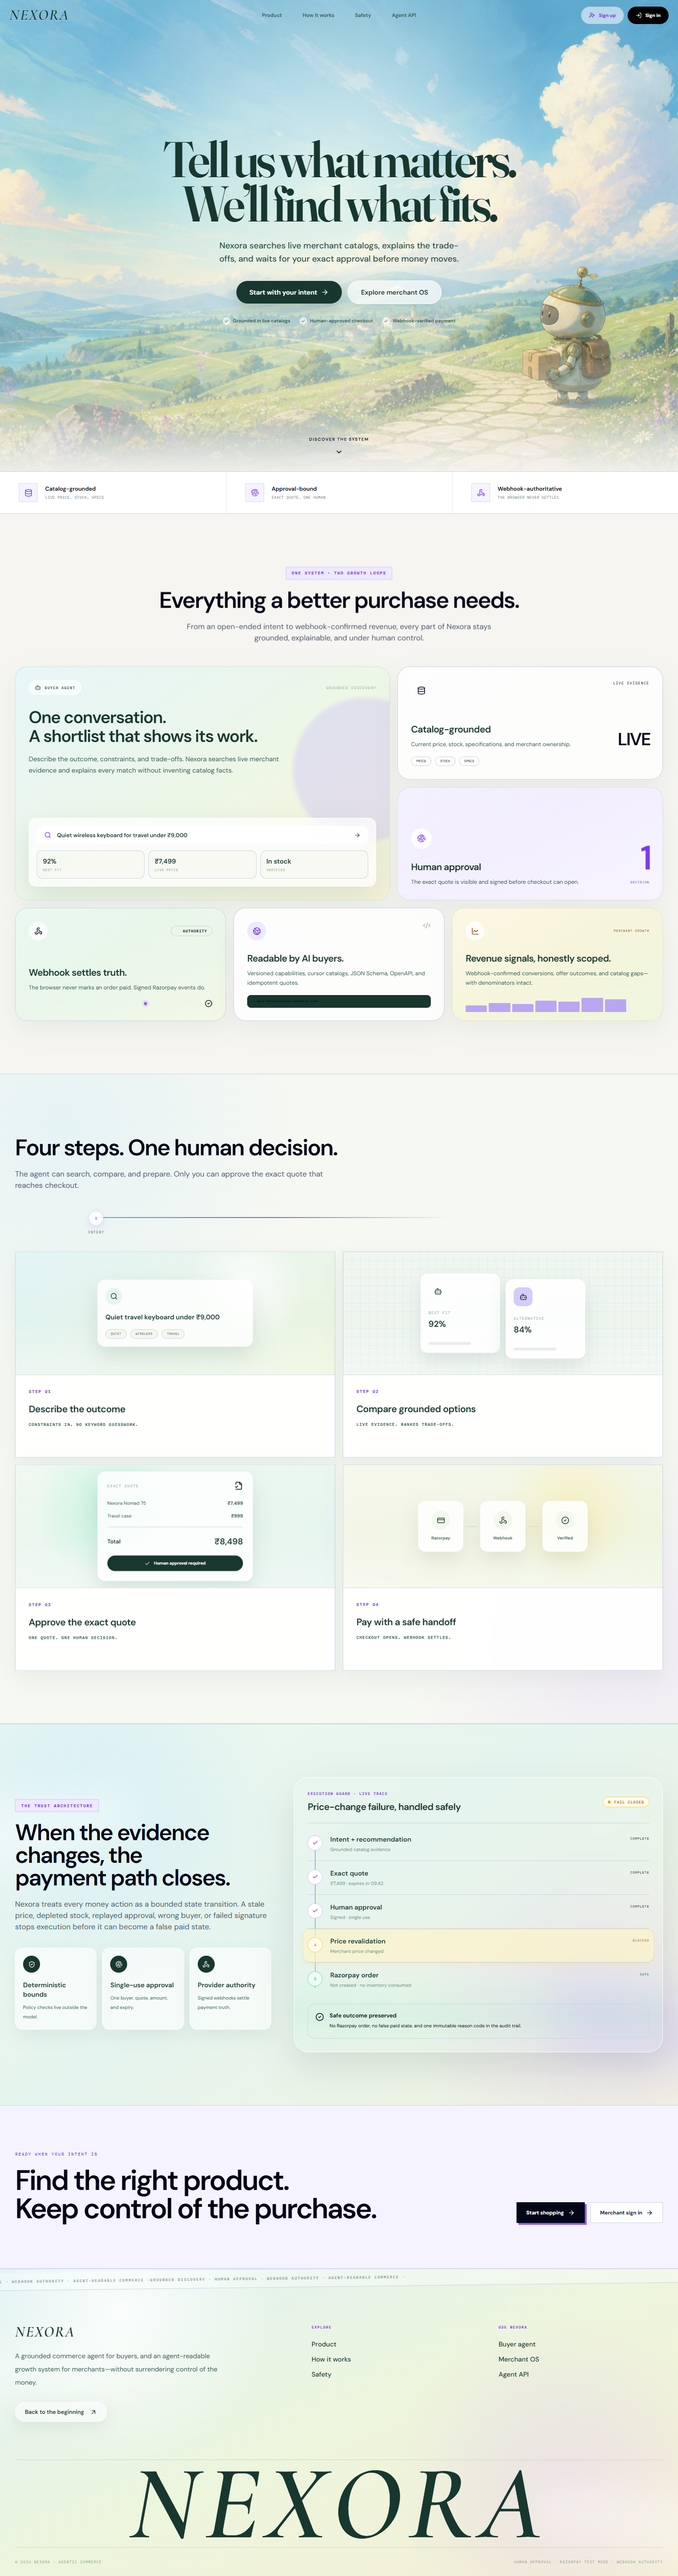
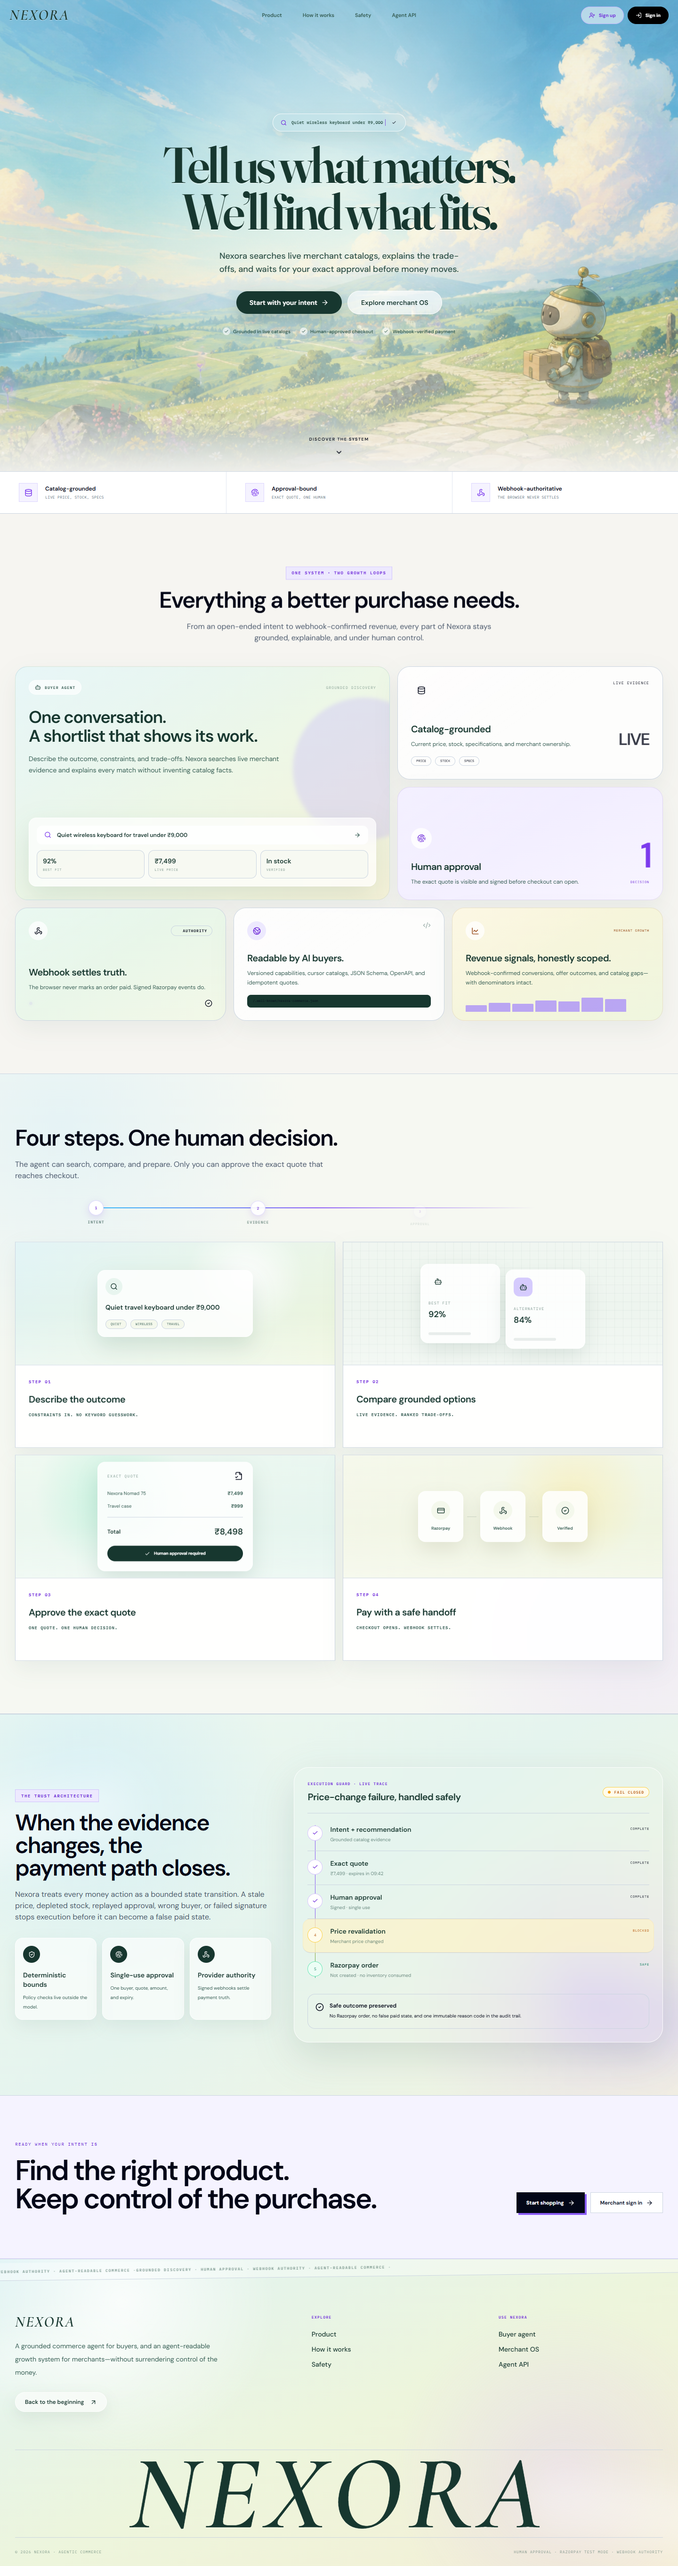
feat: animate landing hero experience

diff --git a/frontend/src/pages/LandingPage.jsx b/frontend/src/pages/LandingPage.jsx
@@ -19,7 +19,7 @@ import {
 import { useEffect, useRef, useState } from 'react'
 import { Link } from 'react-router-dom'
 import Brand from '../components/Brand'
-import { SectionHeading, SignalButton, StatusPill } from '../components/ui/Primitives'
+import { SignalButton, StatusPill } from '../components/ui/Primitives'
 
 const trustPoints = [
   { icon: Database, label: 'Catalog-grounded', detail: 'Live price, stock, specs' },
@@ -139,13 +139,19 @@ export default function LandingPage() {
 
         <div className="mx-auto flex min-h-svh max-w-[1440px] flex-col items-center justify-center pb-32 pt-24 text-center sm:pb-36 sm:pt-24">
           <div className="storybook-copy relative z-10 flex max-w-4xl flex-col items-center">
-            <h1 className="storybook-title mt-7 max-w-[13ch] text-balance text-[clamp(3.35rem,7.4vw,7.3rem)] font-semibold leading-[0.88] tracking-[-0.055em] text-[#17372f] drop-shadow-[0_2px_0_rgba(255,255,255,.35)]">
-              Tell us what matters. We’ll find what fits.
+            <div className="storybook-intent flex max-w-[calc(100vw-2rem)] items-center gap-2.5 rounded-full border border-white/80 bg-white/58 px-4 py-2.5 shadow-[0_12px_32px_rgba(49,89,79,.12)] backdrop-blur-md" aria-label="Example intent: Quiet wireless keyboard under ₹9,000">
+              <Search size={13} className="shrink-0 text-violet-700" aria-hidden="true" />
+              <span className="storybook-typed block overflow-hidden whitespace-nowrap text-left font-mono text-[9px] font-semibold text-[#31594f]" aria-hidden="true">Quiet wireless keyboard under ₹9,000</span>
+              <span className="storybook-intent-ready grid size-4 shrink-0 place-items-center rounded-full bg-emerald-100 text-emerald-700" aria-hidden="true"><Check size={10} /></span>
+            </div>
+            <h1 className="storybook-title mt-6 max-w-[13ch] text-balance text-[clamp(3.35rem,7.4vw,7.3rem)] font-semibold leading-[0.88] tracking-[-0.055em] text-[#17372f] drop-shadow-[0_2px_0_rgba(255,255,255,.35)]">
+              <span className="storybook-title-mask block"><span className="storybook-title-line storybook-title-line-one block">Tell us what matters.</span></span>
+              <span className="storybook-title-mask block"><span className="storybook-title-line storybook-title-line-two block">We’ll find what fits.</span></span>
             </h1>
-            <p className="mt-7 max-w-2xl text-balance text-base font-medium leading-7 text-[#24483f] sm:text-lg">
+            <p className="storybook-description mt-7 max-w-2xl text-balance text-base font-medium leading-7 text-[#24483f] sm:text-lg">
               Nexora searches live merchant catalogs, explains the trade-offs, and waits for your exact approval before money moves.
             </p>
-            <div className="mt-8 flex w-full flex-col items-center justify-center gap-3 sm:w-auto sm:flex-row">
+            <div className="storybook-actions mt-8 flex w-full flex-col items-center justify-center gap-3 sm:w-auto sm:flex-row">
               <Link to="/buyer" className="focus-ring group inline-flex min-h-12 w-full items-center justify-center gap-2 rounded-full bg-[#17372f] px-7 py-3.5 text-sm font-semibold text-white shadow-[0_14px_35px_rgba(23,55,47,.25)] transition duration-300 hover:-translate-y-0.5 hover:bg-violet-700 sm:w-auto">
                 Start with your intent <ArrowRight size={16} className="transition group-hover:translate-x-1" />
               </Link>
@@ -153,9 +159,9 @@ export default function LandingPage() {
                 Explore merchant OS
               </Link>
             </div>
-            <div className="mt-7 flex flex-wrap items-center justify-center gap-x-5 gap-y-2 text-[10px] font-semibold text-[#31594f]">
-              {['Grounded in live catalogs', 'Human-approved checkout', 'Webhook-verified payment'].map((item) => (
-                <span key={item} className="flex items-center gap-1.5"><span className="grid size-4 place-items-center rounded-full bg-white/65"><Check size={10} /></span>{item}</span>
+            <div className="storybook-proof mt-7 flex flex-wrap items-center justify-center gap-x-5 gap-y-2 text-[10px] font-semibold text-[#31594f]">
+              {['Grounded in live catalogs', 'Human-approved checkout', 'Webhook-verified payment'].map((item, index) => (
+                <span key={item} className="storybook-proof-item flex items-center gap-1.5" style={{ '--proof-delay': `${1750 + index * 120}ms` }}><span className="grid size-4 place-items-center rounded-full bg-white/65"><Check size={10} /></span>{item}</span>
               ))}
             </div>
           </div>
@@ -175,7 +181,11 @@ export default function LandingPage() {
 
       <section ref={productSectionRef} id="product" className={`product-section px-4 py-20 sm:px-6 sm:py-28 lg:px-8 ${productVisible ? 'product-section-visible' : ''}`}>
         <div className="mx-auto max-w-[1440px]">
-          <div className="product-bento-heading"><SectionHeading align="center" eyebrow="One system · two growth loops" title="Everything a better purchase needs." description="From an open-ended intent to webhook-confirmed revenue, every part of Nexora stays grounded, explainable, and under human control." /></div>
+          <header className="product-bento-heading mx-auto flex max-w-3xl flex-col items-center text-center">
+            <p className="inline-flex border border-violet-300/70 bg-violet-100 px-3 py-1.5 font-mono text-[9px] font-semibold uppercase tracking-[0.17em] text-violet-700">One system · two growth loops</p>
+            <h2 className="mt-5 text-balance text-3xl font-semibold leading-[1.05] tracking-[-0.045em] text-slate-950 sm:text-5xl">Everything a better purchase needs.</h2>
+            <p className="mt-5 max-w-2xl text-sm leading-7 text-slate-600 sm:text-base">From an open-ended intent to webhook-confirmed revenue, every part of Nexora stays grounded, explainable, and under human control.</p>
+          </header>
           <div className="product-bento-grid mt-12 grid gap-4 lg:grid-cols-12 lg:auto-rows-[240px]">
             <ProductFeatureCard tone="sky" motion="scale" index={0} className="min-h-[470px] lg:col-span-7 lg:row-span-2">
               <div className="product-bento-orb product-bento-orb-one" aria-hidden="true" />
@@ -217,7 +227,10 @@ export default function LandingPage() {
 
       <section ref={journeySectionRef} id="how-it-works" className={`journey-steps-section journey-reveal-section relative isolate overflow-hidden border-y border-emerald-950/10 px-4 py-20 sm:px-6 sm:py-28 lg:px-8 ${journeyVisible ? 'journey-section-visible' : ''}`}>
         <div className="relative z-10 mx-auto max-w-[1440px]">
-          <div className="journey-section-heading"><SectionHeading title="Four steps. One human decision." description="The agent can search, compare, and prepare. Only you can approve the exact quote that reaches checkout." /></div>
+          <header className="journey-section-heading flex max-w-3xl flex-col items-start">
+            <h2 className="text-balance text-3xl font-semibold leading-[1.05] tracking-[-0.045em] text-slate-950 sm:text-5xl">Four steps. One human decision.</h2>
+            <p className="mt-5 max-w-2xl text-sm leading-7 text-slate-600 sm:text-base">The agent can search, compare, and prepare. Only you can approve the exact quote that reaches checkout.</p>
+          </header>
           <div className="journey-route relative mt-10 hidden grid-cols-4 items-center md:grid" aria-hidden="true">
             <span className="absolute left-[12.5%] right-[12.5%] top-[15px] h-0.5 bg-emerald-950/15" />
             <span className="journey-route-fill absolute left-[12.5%] top-[15px] h-0.5 bg-gradient-to-r from-sky-400 via-violet-500 to-emerald-500" />
@@ -234,7 +247,11 @@ export default function LandingPage() {
         <div className="safety-aurora safety-aurora-two" aria-hidden="true" />
         <div className="relative z-10 mx-auto grid max-w-[1440px] gap-12 lg:grid-cols-[.82fr_1.18fr] lg:items-center">
           <div className="safety-copy-panel">
-            <SectionHeading eyebrow="The trust architecture" title="When the evidence changes, the payment path closes." description="Nexora treats every money action as a bounded state transition. A stale price, depleted stock, replayed approval, wrong buyer, or failed signature stops execution before it can become a false paid state." />
+            <header className="flex max-w-3xl flex-col items-start">
+              <p className="inline-flex border border-violet-300/70 bg-violet-100 px-3 py-1.5 font-mono text-[9px] font-semibold uppercase tracking-[0.17em] text-violet-700">The trust architecture</p>
+              <h2 className="mt-5 text-balance text-3xl font-semibold leading-[1.05] tracking-[-0.045em] text-slate-950 sm:text-5xl">When the evidence changes, the payment path closes.</h2>
+              <p className="mt-5 max-w-2xl text-sm leading-7 text-slate-600 sm:text-base">Nexora treats every money action as a bounded state transition. A stale price, depleted stock, replayed approval, wrong buyer, or failed signature stops execution before it can become a false paid state.</p>
+            </header>
             <div className="mt-8 grid gap-3 sm:grid-cols-3 lg:grid-cols-1 xl:grid-cols-3">
               {[{ icon: ShieldCheck, label: 'Deterministic bounds', copy: 'Policy checks live outside the model.' }, { icon: Fingerprint, label: 'Single-use approval', copy: 'One buyer, quote, amount, and expiry.' }, { icon: Webhook, label: 'Provider authority', copy: 'Signed webhooks settle payment truth.' }].map(({ icon: Icon, label, copy }, index) => <article key={label} className="safety-principle rounded-2xl border border-white/80 bg-white/60 p-4 shadow-[0_14px_34px_rgba(42,81,68,.08)] backdrop-blur-md" style={{ '--safety-delay': `${index * 110}ms` }}><span className="grid size-9 place-items-center rounded-full bg-[#17372f] text-white"><Icon size={15} /></span><h3 className="mt-4 text-sm font-semibold text-[#17372f]">{label}</h3><p className="mt-2 text-[10px] leading-5 text-[#31594f]">{copy}</p></article>)}
             </div>

diff --git a/frontend/src/index.css b/frontend/src/index.css
@@ -57,8 +57,71 @@
   text-shadow: 0 1px 0 rgba(255, 255, 255, .45);
 }
 
-.storybook-copy {
-  animation: storybook-arrive .85s cubic-bezier(.2,.8,.2,1) both;
+.storybook-intent,
+.storybook-title-line,
+.storybook-description,
+.storybook-actions,
+.storybook-proof-item {
+  will-change: transform, opacity;
+}
+
+.storybook-intent {
+  opacity: 0;
+  transform: translateY(12px) scale(.97);
+  animation: storybook-intent-enter .58s cubic-bezier(.2,.8,.2,1) .12s forwards;
+}
+
+.storybook-typed {
+  width: 0;
+  max-width: 37ch;
+  border-right: 1px solid rgba(109, 40, 217, .72);
+  animation:
+    storybook-type 1.15s steps(37, end) .48s forwards,
+    storybook-caret .68s step-end .48s 3;
+}
+
+.storybook-intent-ready {
+  opacity: 0;
+  transform: scale(.55);
+  animation: storybook-ready-pop .42s cubic-bezier(.2,.9,.25,1.35) 1.7s forwards;
+}
+
+.storybook-title-mask { overflow: hidden; padding-bottom: .05em; }
+
+.storybook-title-line {
+  opacity: 0;
+  transform: translateY(108%) rotate(.7deg);
+  animation: storybook-line-reveal .78s cubic-bezier(.16,.8,.24,1) forwards;
+}
+
+.storybook-title-line-one { animation-delay: .66s; }
+.storybook-title-line-two { animation-delay: .82s; }
+
+.storybook-description,
+.storybook-actions,
+.storybook-proof-item {
+  opacity: 0;
+  transform: translateY(14px);
+  animation: storybook-detail-enter .62s cubic-bezier(.2,.8,.2,1) forwards;
+}
+
+.storybook-description { animation-delay: 1.2s; }
+.storybook-actions { animation-delay: 1.4s; }
+.storybook-proof-item { animation-delay: var(--proof-delay); }
+
+.storybook-actions a {
+  position: relative;
+  overflow: hidden;
+}
+
+.storybook-actions a::after {
+  content: '';
+  position: absolute;
+  inset: -40% auto -40% -45%;
+  width: 30%;
+  transform: skewX(-18deg);
+  background: linear-gradient(90deg, transparent, rgba(255,255,255,.42), transparent);
+  animation: storybook-action-glint 4.8s ease-in-out 2.4s infinite;
 }
 
 .storybook-cloud {
@@ -811,9 +874,36 @@
   to { opacity: 1; clip-path: inset(0 0 0 0); transform: translateY(0); }
 }
 
-@keyframes storybook-arrive {
-  from { opacity: 0; transform: translateY(18px) scale(.99); }
+@keyframes storybook-intent-enter {
   to { opacity: 1; transform: translateY(0) scale(1); }
+}
+
+@keyframes storybook-type {
+  from { width: 0; }
+  to { width: 37ch; }
+}
+
+@keyframes storybook-caret {
+  0%, 100% { border-color: transparent; }
+  50% { border-color: rgba(109, 40, 217, .72); }
+}
+
+@keyframes storybook-ready-pop {
+  to { opacity: 1; transform: scale(1); }
+}
+
+@keyframes storybook-line-reveal {
+  to { opacity: 1; transform: translateY(0) rotate(0); }
+}
+
+@keyframes storybook-detail-enter {
+  to { opacity: 1; transform: translateY(0); }
+}
+
+@keyframes storybook-action-glint {
+  0%, 68% { left: -45%; opacity: 0; }
+  73% { opacity: 1; }
+  87%, 100% { left: 120%; opacity: 0; }
 }
 
 @keyframes storybook-breathe {
@@ -842,9 +932,23 @@
 
 @media (prefers-reduced-motion: reduce) {
   .storybook-hero-art,
-  .storybook-copy,
   .storybook-cloud,
-  .storybook-scroll-cue { animation: none; }
+  .storybook-scroll-cue,
+  .storybook-intent,
+  .storybook-typed,
+  .storybook-intent-ready,
+  .storybook-title-line,
+  .storybook-description,
+  .storybook-actions,
+  .storybook-proof-item,
+  .storybook-actions a::after { animation: none; }
+  .storybook-intent,
+  .storybook-intent-ready,
+  .storybook-title-line,
+  .storybook-description,
+  .storybook-actions,
+  .storybook-proof-item { opacity: 1; transform: none; }
+  .storybook-typed { width: 37ch; border-right-color: transparent; }
 
   .product-section:not(.product-section-visible) .product-bento-heading,
   .product-section:not(.product-section-visible) .product-bento-card {

diff --git a/frontend/index.html b/frontend/index.html
@@ -6,7 +6,7 @@
     <meta name="theme-color" content="#020617" />
     <meta name="description" content="Nexora — intelligent commerce, from intent to order." />
     <link rel="icon" type="image/png" href="/images/Polygonal%20%27N%27%20Monogram%20with%20Interlocking%20Shapes%20%281%29.png" />
-    <title>Nexora · Agentic commerce</title>
+    <title>Nexora</title>
   </head>
   <body>
     <div id="root"></div>

diff --git a/docs/UI.md b/docs/UI.md
@@ -8,7 +8,7 @@ Nexora adapts the visual grammar to the existing Vite/React application rather t
 
 ## 21st.dev component mapping
 
-- The public hero combines the hierarchy of Cypon Analytics with the commerce framing of [Commerce Hero](https://21st.dev/@bankkroll/components/commerce-hero). Nexora's implementation is original because that component lists an unknown license and its registry requires an account API key.
+- The public hero combines the hierarchy of Cypon Analytics with the commerce framing of [Commerce Hero](https://21st.dev/@bankkroll/components/commerce-hero). Its foreground now tells the product story in sequence: a buyer intent types into a translucent prompt, the two headline lines reveal through masks, and the explanation, actions, and grounded trust proofs follow in a restrained stagger. The artwork remains unchanged, and every entrance has a reduced-motion fallback. Nexora's implementation is original because that component lists an unknown license and its registry requires an account API key.
 - The landing product overview adapts the varied-density grid hierarchy of Kavi Katiyar's [Bento Product Features](https://21st.dev/@kavikatiyar/components/bento-product-features): one dominant product story surrounded by compact capability, control, integration, and signal cards. Its one-time staggered scroll choreography and purposeful in-card motion follow the product-demo restraint seen on [Linear](https://linear.app/) and [Stripe](https://stripe.com/), with reduced-motion fallbacks. Nexora uses original commerce content, components, and watercolor styling rather than copying published source.
 - The live decision trace follows the state-card pattern described by the MIT-licensed [Tool Invocation](https://21st.dev/@Alwurts/components/tool-invocation): clear working/success/blocked states, concise arguments/results, and no hidden chain-of-thought.
 - The bounded purchase sequence adapts the information hierarchy of the first illustrated cards in the official [Next.js homepage “What's in Next.js?” section](https://nextjs.org/): a large explanatory visual above a restrained, square-cornered footer. A scroll-drawn route and alternating card unfolds establish sequence, while each card starts with one precise operational signal and reveals its detailed explanation plus a step-specific animation on hover, keyboard focus, or touch. Nexora's four diagrams, content, watercolor palette, and implementation are original and use no Next.js site assets or source.
